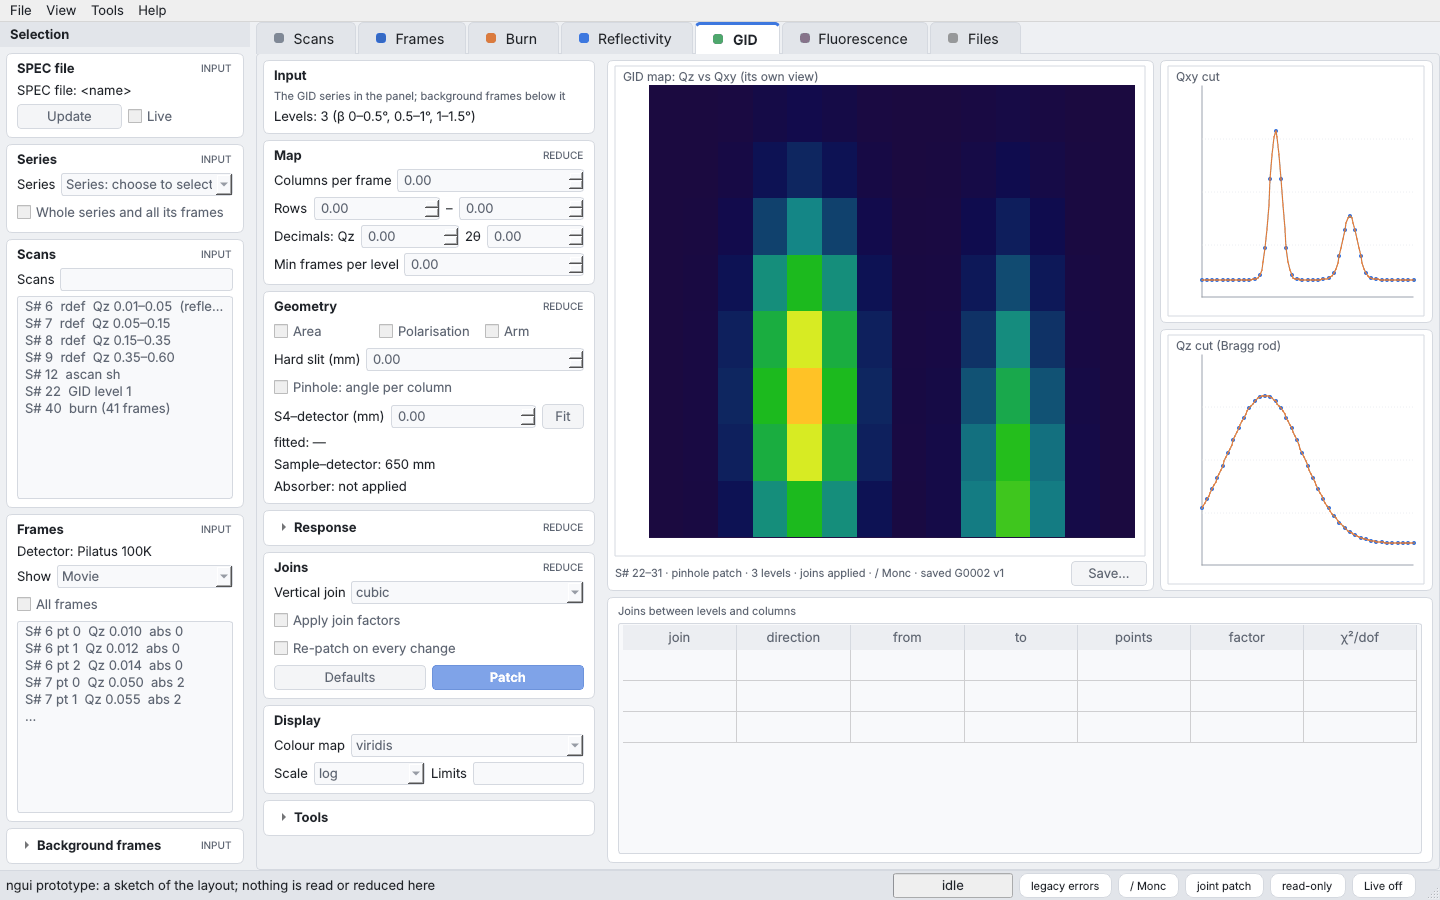
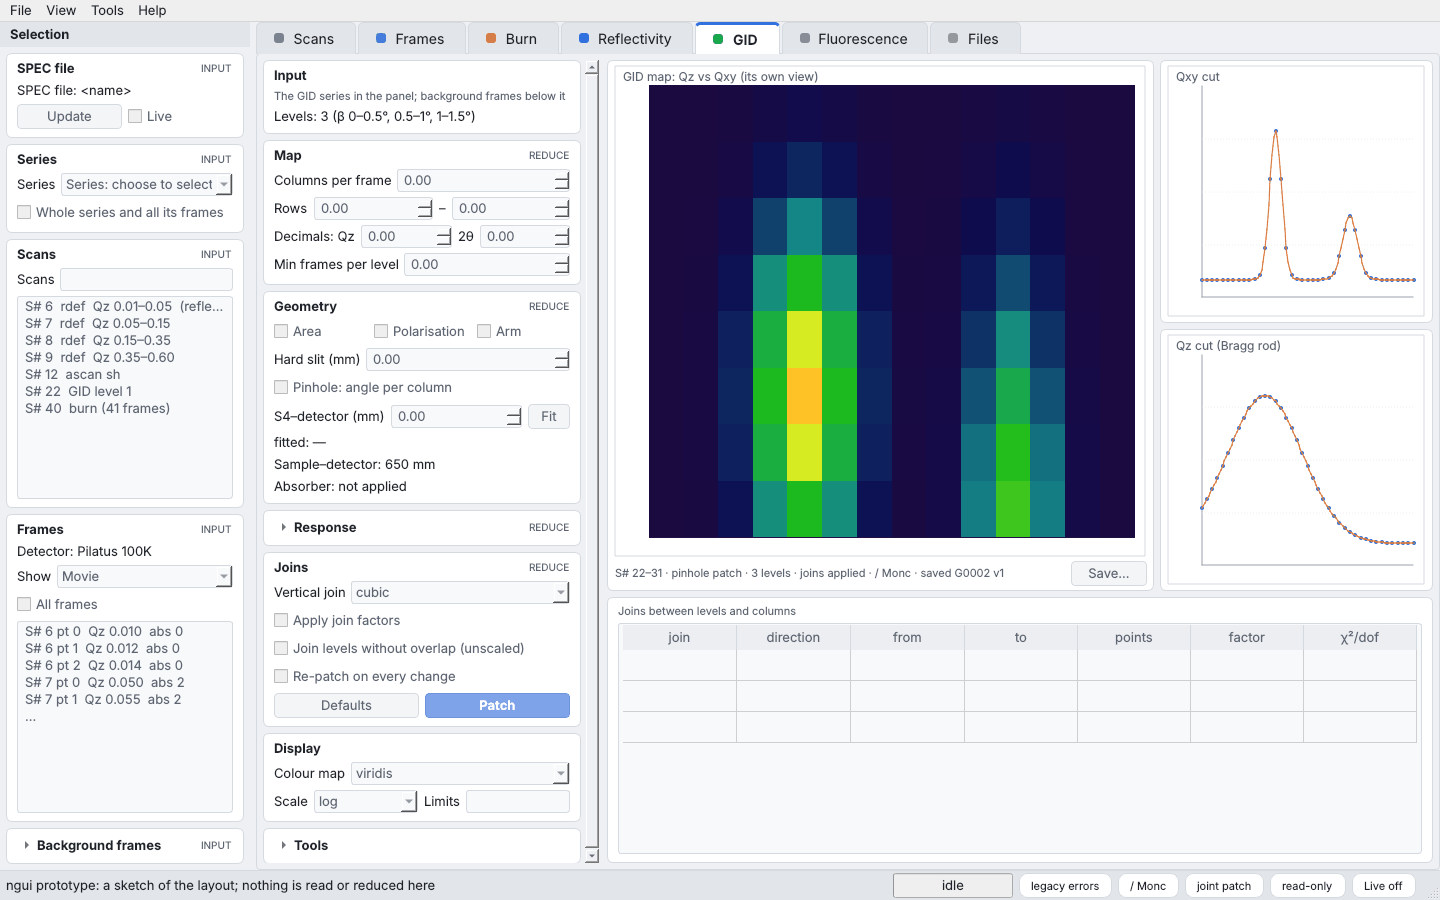
Regenerate the GID worksheet shots and controls.md for #136's checkbox; re-record
main's #136 (the GID stopgap) added a worksheet check box; the worksheet
screenshot, the ngui GID shots and the tooltip list are regenerated and
recorded.

Claude-Session: https://claude.ai/code/session_017UNj93eCQ98icFoDfMzdiH

diff --git a/docs/gui/screens/README.md b/docs/gui/screens/README.md
@@ -6,7 +6,7 @@ and synthetic data from `tests/synth.py` for MCA / fluorescence, the reflectivit
 (NX has no MCA data). Regenerate the whole folder with the command above; the table is rewritten, the
 Observations section is by hand and is kept.
 
-80 images, 5.1 MB, last run took 48 s.
+80 images, 5.1 MB, last run took 47 s.
 
 | File | What it shows | Data and state |
 |---|---|---|
@@ -30,7 +30,7 @@ Observations section is by hand and is kept.
 | `21_pilatus_one_frame.png` | Pilatus tab, whole window, one frame | Scan 11, frame 1 selected |
 | `21b_pilatus_tab_controls.png` | Pilatus tab page (controls above, image below) | Scan 11, frame 1 |
 | `22_pilatus_three_frames.png` | Pilatus tab with three frames selected (a movie since 2026-11-24, F69) | Scan 11, frames 1, 11, 21 selected |
-| `23_pilatus_all_frames_of_a_scan.png` | Pilatus tab with ALL frames of a long scan selected: the movie (F69; before 2026-11-24, 10 small tiles) | Scan 11: all 40 frames selected (drawing took 0.5 s offscreen) |
+| `23_pilatus_all_frames_of_a_scan.png` | Pilatus tab with ALL frames of a long scan selected: the movie (F69; before 2026-11-24, 10 small tiles) | Scan 11: all 40 frames selected (drawing took 0.4 s offscreen) |
 | `23b_pilatus_all_frames_reflectivity_series.png` | Pilatus tab with all frames of the four reflectivity scans selected | Scans 6-9: all 96 frames selected |
 | `30_reflectivity_empty.png` | The Reflectivity tab (page and its controls) with nothing loaded | No SPEC file; crop of the tab widget |
 | `31_refpatch_dialog_first_join.png` | Ref Patch window (opened by Pilatus > Ref Patch), first join | Scans 6-9 all frames; Ref Patch clicked |

diff --git a/docs/gui/prototype/screens/README.md b/docs/gui/prototype/screens/README.md
@@ -24,6 +24,6 @@ Made by `python tests/tools/ngui_screens.py` (do not edit by hand). The window i
 | [`22_left_frames.png`](22_left_frames.png) | Close-up: the Frames tab's left column, every group open | 322 × 988 |
 | [`23_left_burn.png`](23_left_burn.png) | Close-up: the Burn tab's left column, every group open | 336 × 803 |
 | [`24_left_reflectivity.png`](24_left_reflectivity.png) | Close-up: the Reflectivity tab's left column, every group open | 322 × 966 |
-| [`25_left_gid.png`](25_left_gid.png) | Close-up: the GID tab's left column, every group open | 430 × 1077 |
+| [`25_left_gid.png`](25_left_gid.png) | Close-up: the GID tab's left column, every group open | 430 × 1105 |
 | [`26_left_fluorescence.png`](26_left_fluorescence.png) | Close-up: the Fluorescence tab's left column, every group open | 322 × 810 |
 | [`27_left_files.png`](27_left_files.png) | Close-up: the Files tab's left column, every group open | 336 × 803 |

diff --git a/docs/manual/controls.md b/docs/manual/controls.md
@@ -655,4 +655,4 @@ Generated by `python tests/tools/dump_tooltips.py`; do not edit by hand. Control
 | Menus |  |  | QAction | Customize | Edit axis, curve and image parameters |
 | Menus |  |  | QAction | Save | Save the figure |
 
-649 controls listed, 521 with a tooltip.
+650 controls listed, 522 with a tooltip.
